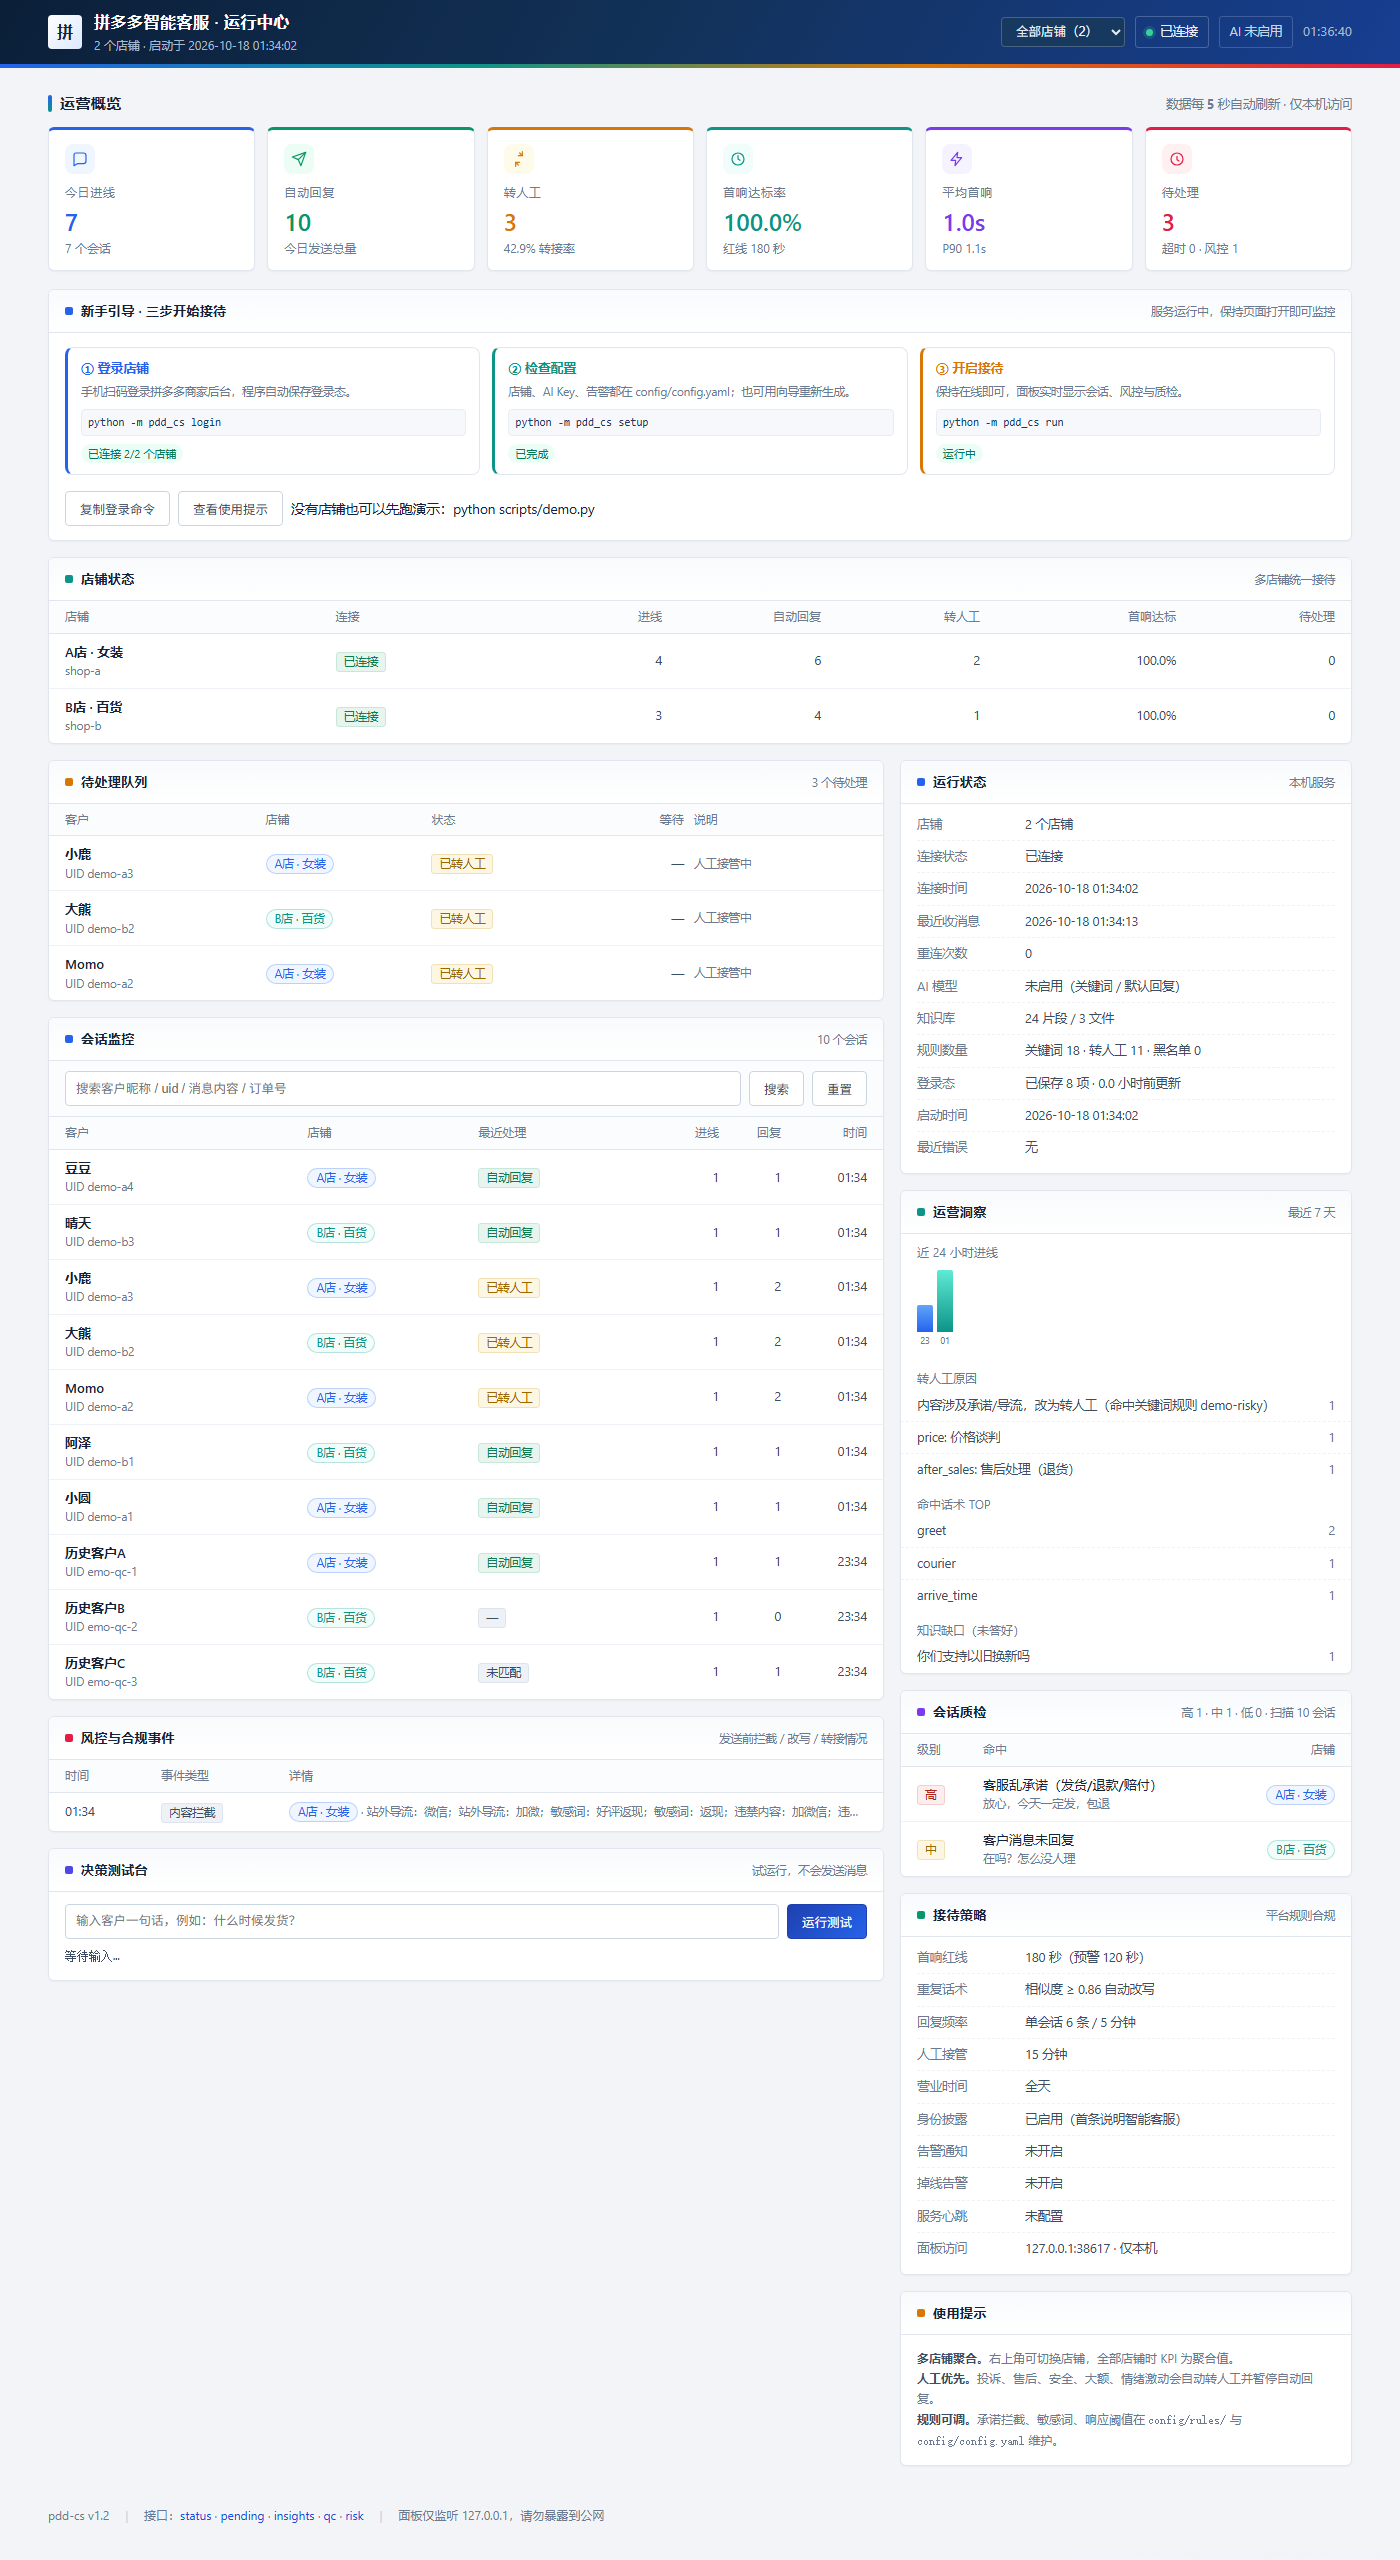
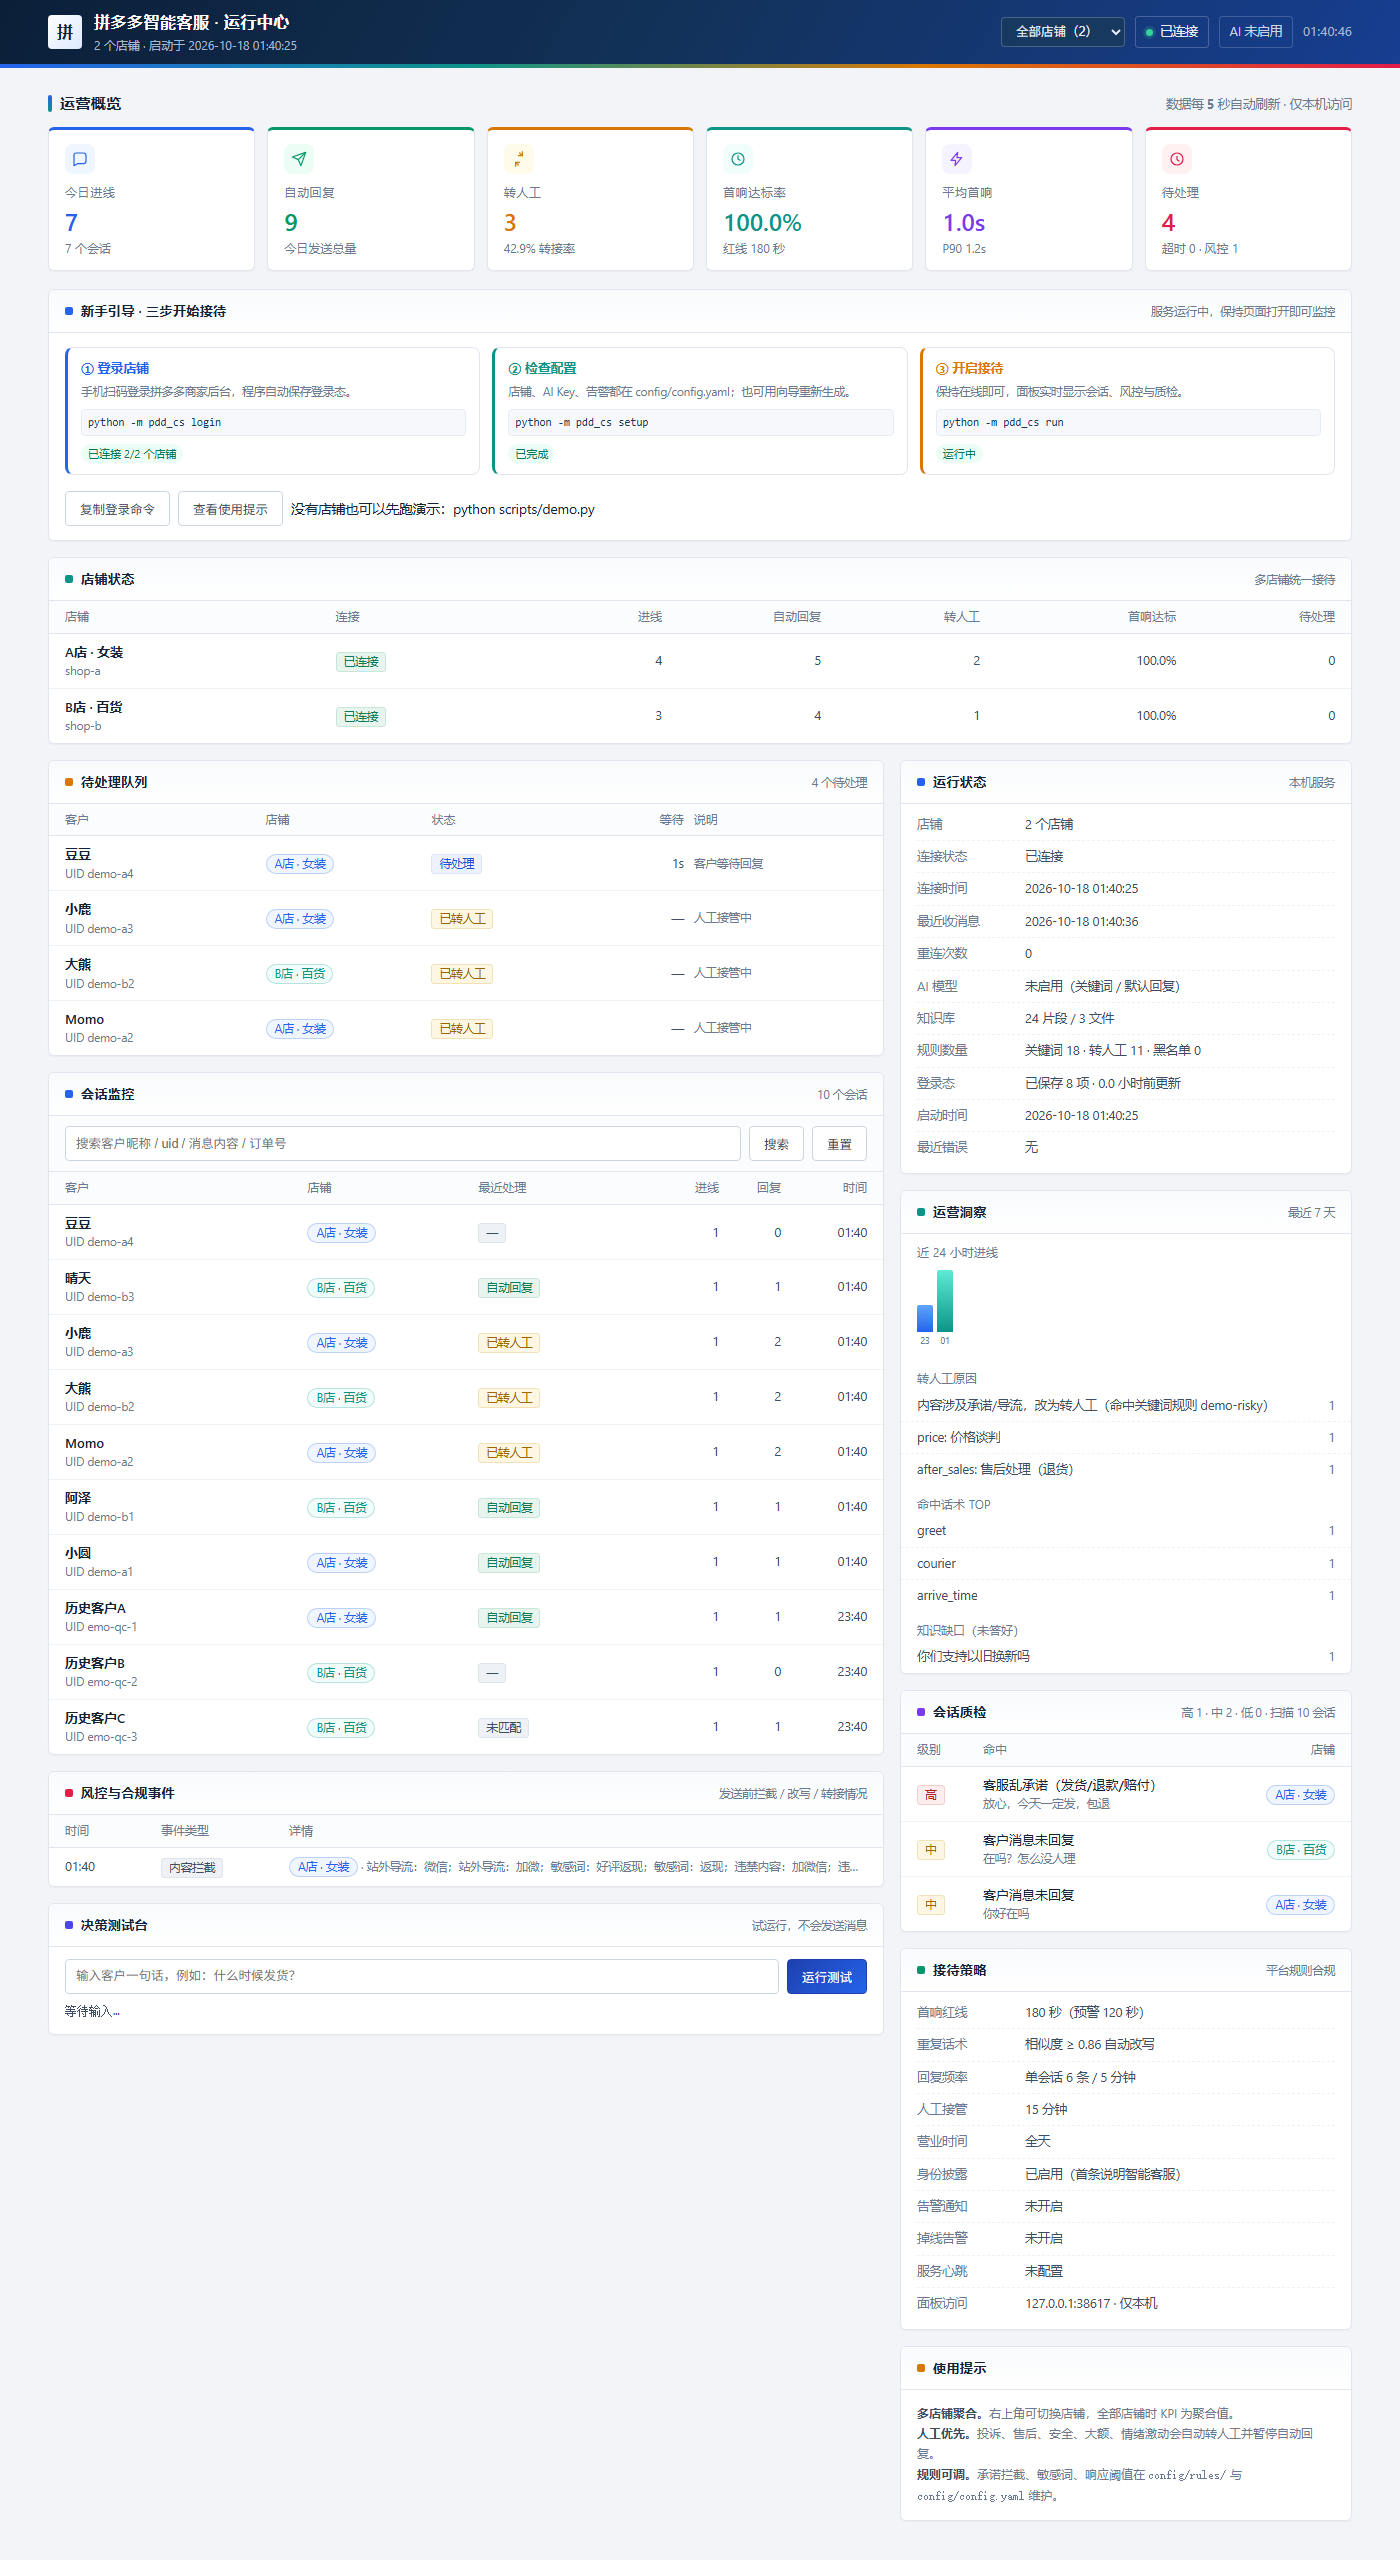
docs: 更新 v1.3 面板截图；新手引导按店铺数量显示登录命令

diff --git a/pdd_cs/web/dashboard.html b/pdd_cs/web/dashboard.html
@@ -206,7 +206,7 @@
       <div class="guide-step" style="--step:#2563eb">
         <div class="n">① 登录店铺</div>
         <div class="desc">手机扫码登录拼多多商家后台，程序自动保存登录态。</div>
-        <code class="cmd">python -m pdd_cs login</code>
+        <code class="cmd" id="guide-login-cmd">python -m pdd_cs login</code>
         <span class="guide-status todo" id="guide-login">等待登录</span>
       </div>
       <div class="guide-step" style="--step:#0d9488">
@@ -406,6 +406,11 @@ function renderGuide(status){
   const connected = shops.filter(x => x.channel && x.channel.connected).length;
   const started = !!status.started;
   const loginEl = $('guide-login'), runEl = $('guide-run');
+  const loginCmd = shops.length > 1
+    ? `python -m pdd_cs login --shop ${shops[0].shop_id}`
+    : 'python -m pdd_cs login';
+  const cmdEl = $('guide-login-cmd');
+  if (cmdEl) cmdEl.textContent = loginCmd;
   loginEl.textContent = connected > 0 ? `已连接 ${connected}/${total} 个店铺` : '等待登录';
   loginEl.className = 'guide-status ' + (connected > 0 ? 'ok' : 'todo');
   runEl.textContent = started ? '运行中' : '未启动';
@@ -624,7 +629,8 @@ async function simulate(){
 
 $('shop-select').addEventListener('change', e => { selectedShop = e.target.value; load(); });
 $('copy-login-btn')?.addEventListener('click', async () => {
-  const cmd = 'python -m pdd_cs login' + (selectedShop === 'all' ? '' : ' --shop ' + selectedShop);
+  const targetShop = selectedShop !== 'all' ? selectedShop : (currentShops[0]?.shop_id || '');
+  const cmd = 'python -m pdd_cs login' + (currentShops.length > 1 && targetShop ? ' --shop ' + targetShop : '');
   try {
     await navigator.clipboard.writeText(cmd);
     $('copy-login-btn').textContent = '已复制：' + cmd;
